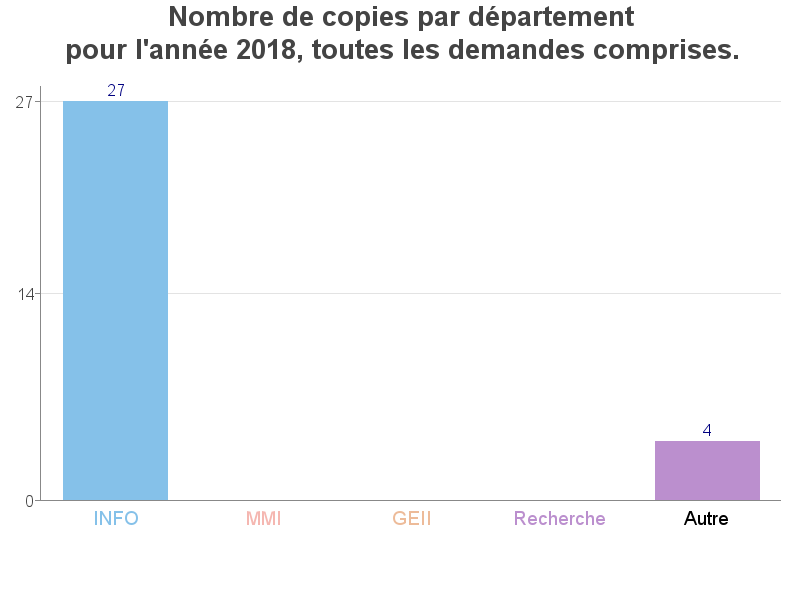
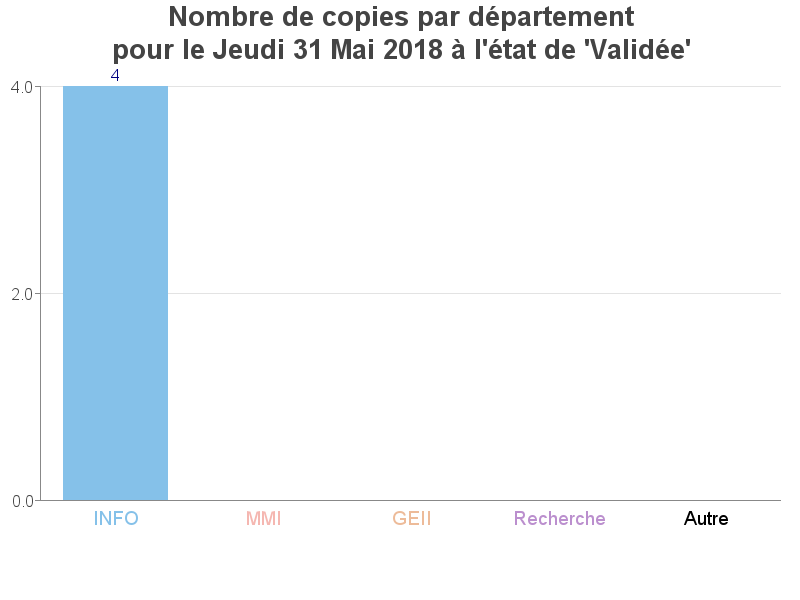
correction bug der

Changed region(s): [[0.0312, 0.06, 0.9062, 0.18], [0.8125, 0.72, 0.9688, 0.84], [0.0, 0.48, 0.0625, 0.51]]

diff --git a/src/site/pages/repro-stat.php b/src/site/pages/repro-stat.php
@@ -69,17 +69,17 @@
 						<div class="col">
 							<label for="inputDate">Suivi période : </label>
 							<select name="champDate" class="form-control" >
-								<option value="Journalier">Journalier</option>
-								<option value="Mensuelle">Mensuelle</option>
-								<option value="Annuelle" selected="selected" >Annuelle</option>	
+								<option value="Journalier"<?php if(!empty($_POST['champDate'])){if($_POST['champDate'] == "Journalier"){echo "selected";}}?>>Journalier</option>
+								<option value="Mensuelle" <?php if(!empty($_POST['champDate'])){if($_POST['champDate'] == "Mensuelle"){echo "selected";}}?>>Mensuelle</option>
+								<option value="Annuelle" <?php if(!empty($_POST['champDate'])){if($_POST['champDate'] == "Annuelle"){echo "selected";}}else{echo "selected";}?> >Annuelle</option>	
 							</select>
 							<label for="inputEtat">Etat : </label>
 							<select name="champEtat" class="form-control" >
-								<option value="ALL" selected="selected">Toutes les demandes</option>
-								<option value="En attente">En attente</option>
-								<option value="En cours">En cours</option>
-								<option value="Validée">Validée</option>
-								<option value="Annulée">Annulée</option>
+								<option value="ALL" <?php  if(!empty($_POST['champEtat'])){if($_POST['champEtat'] == "ALL"){echo "selected";}}else{echo "selected";}?>>Toutes les demandes</option>
+								<option value="En attente"<?php if(!empty($_POST['champEtat'])){if($_POST['champEtat'] == "En attente"){echo "selected";}}?>>En attente</option>
+								<option value="En cours" <?php if(!empty($_POST['champEtat'])){if($_POST['champEtat'] == "En cours"){echo "selected";}}?>>En cours</option>
+								<option value="Validée" <?php if(!empty($_POST['champEtat'])){if($_POST['champEtat'] == "Validée"){echo "selected";}}?>>Validée</option>
+								<option value="Annulée" <?php if(!empty($_POST['champEtat'])){if($_POST['champEtat'] == "Annulée"){echo "selected";}}?>>Annulée</option>
 							</select>
 							<br/>
 							<button type="submit" class="btn btn-primary">Afficher le graphe</button>
